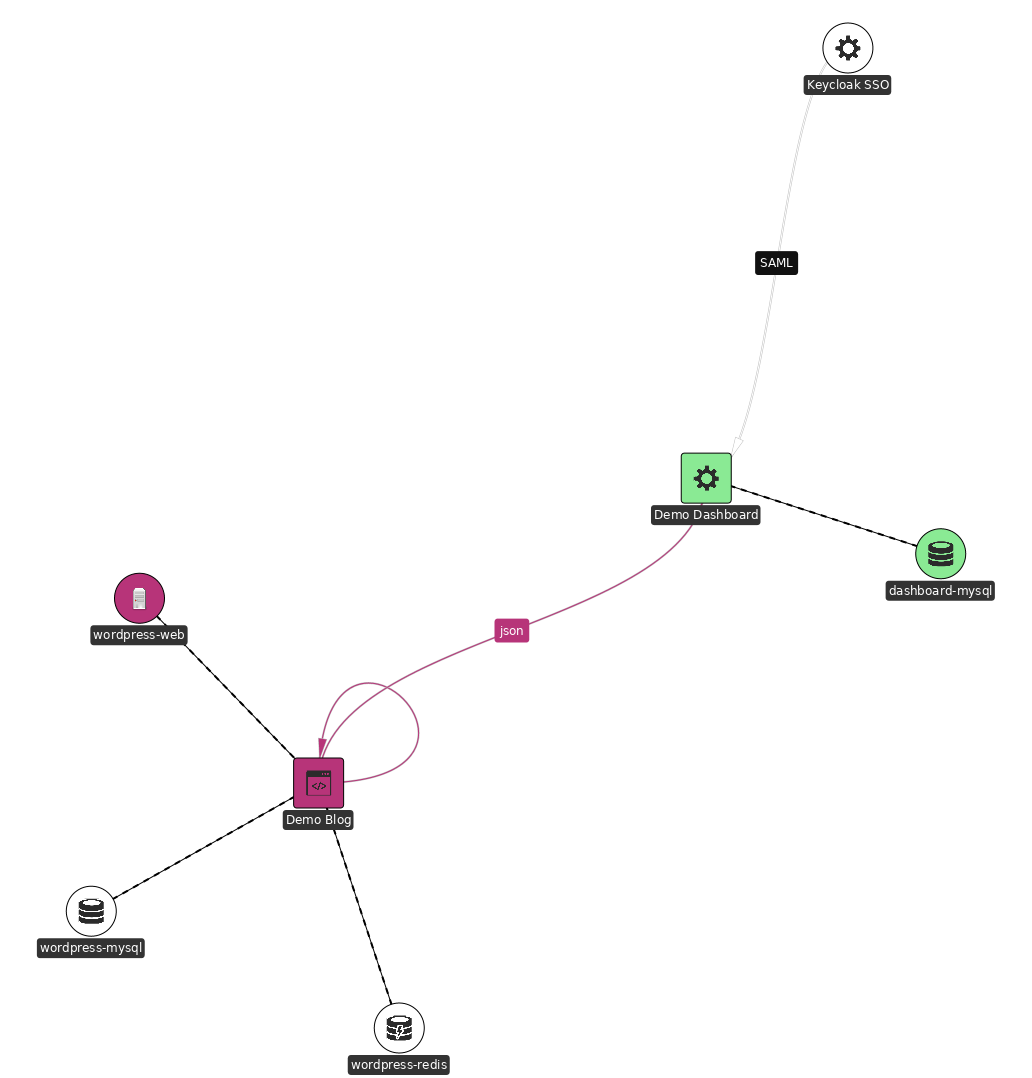
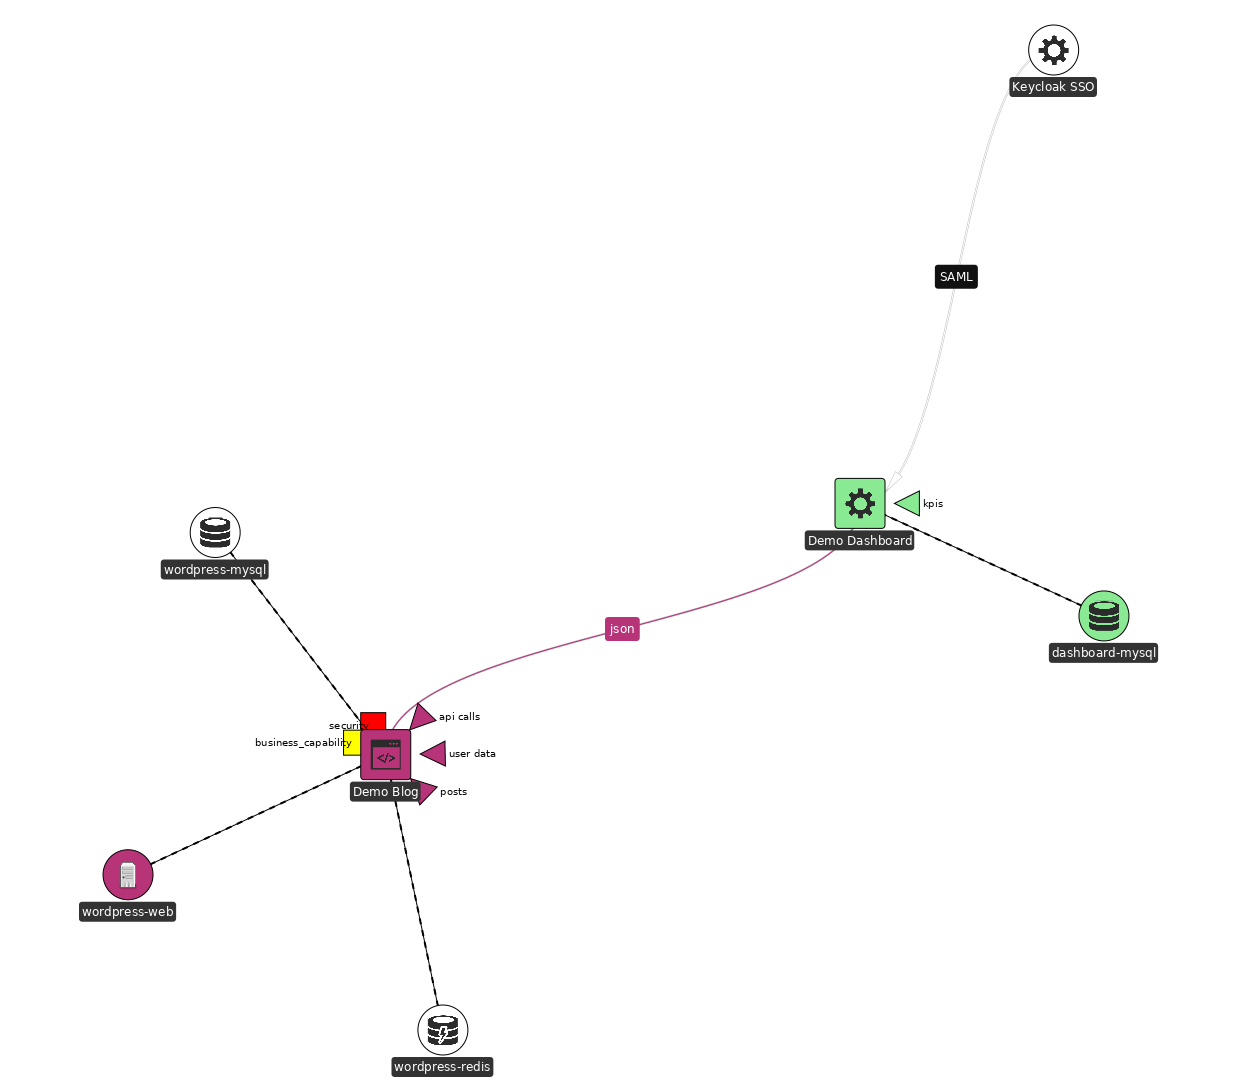
improved rendering

diff --git a/src/main/java/de/bonndan/nivio/output/graphstream/GraphStreamRenderer.java b/src/main/java/de/bonndan/nivio/output/graphstream/GraphStreamRenderer.java
@@ -143,12 +143,15 @@ public class GraphStreamRenderer implements Renderer {
             int offset = -90 - (rotation / 2) * (service.getInterfaces().size() -1);
             int z = offset + i.get() * rotation;
             sprite.setPosition(StyleConstants.Units.GU, 0.13, 2, z);
-            sprite.setAttribute("ui.label", "   "+ inter.getDescription());
+            sprite.setAttribute("ui.label", " "+ inter.getDescription());
             sprite.setAttribute("ui.style", "stroke-mode: plain; " +
                     "fill-color: #" + Color.intToARGB(service.getGroup())+ "; fill-mode: plain; " +
                     "fill-image: url('http://localhost:8080/icons/interface.png'); " +
-                    "shape: circle; " +
-                    "z-index: 1; ");
+                    "z-index: 1; " +
+                    "sprite-orientation: from; " +
+                    "shape: arrow; " +
+                    "text-alignment: at-right; "
+            );
         });
     }
 
@@ -172,13 +175,15 @@ public class GraphStreamRenderer implements Renderer {
             sprite.attachToNode(serviceNode.getId());
             int rotation = 45;
             int offset = 90 - (rotation / 2) * (displayed.size() - 1);
-            int z = offset + i.get() * rotation;
-            sprite.setPosition(StyleConstants.Units.GU, 0.13, 2, z);
+            int z = offset + i.getAndIncrement() * rotation;
+            sprite.setPosition(StyleConstants.Units.GU, 0.07, 2, z);
             sprite.setAttribute("ui.label", "   " + key);
             sprite.setAttribute("ui.style", "stroke-mode: plain; " +
                     "fill-color: "+ value + "; fill-mode: plain; " +
-                    "shape: circle; " +
-                    "z-index: 1; ");
+                    "shape: box; " +
+                    "z-index: 2; " +
+                    "text-alignment: at-left; "
+            );
         });
     }
 
@@ -247,7 +252,6 @@ public class GraphStreamRenderer implements Renderer {
                         "size: 25px; " +
                         "shape: box; " +
                         "fill-mode: image-scaled-ratio-max; " +
-                        "text-alignment: at-right; " +
                         "text-padding: 30px, 0px; " +
                         "}\n";
     }
